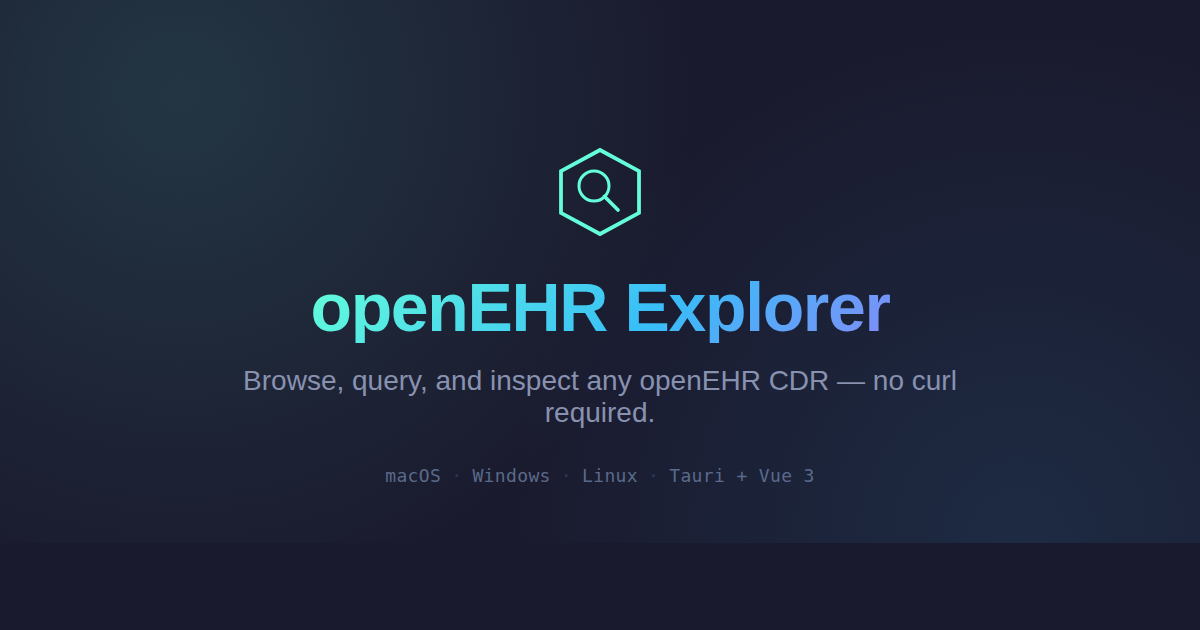
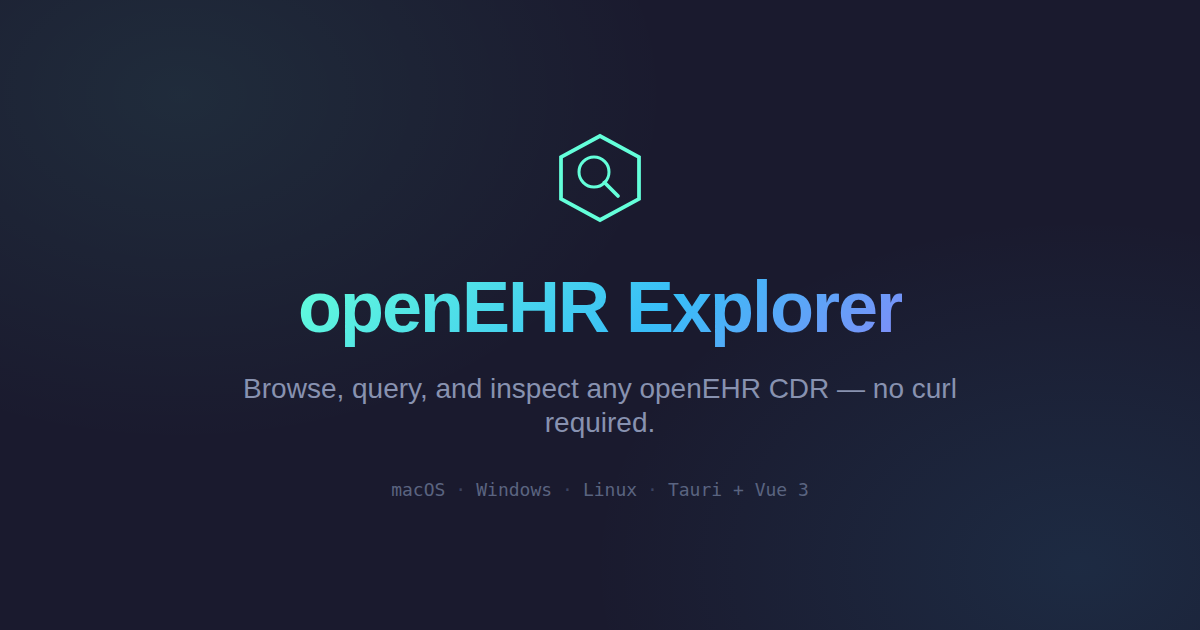
fix(website): og-image gradient, footer copyright, persistent section nav (#217)

diff --git a/scripts/og-image/og-image.html b/scripts/og-image/og-image.html
@@ -1,0 +1,83 @@
+<!doctype html>
+<html lang="en">
+  <head>
+    <meta charset="utf-8" />
+    <title>openEHR Explorer OG image</title>
+    <style>
+      html,
+      body {
+        margin: 0;
+        width: 1200px;
+        height: 630px;
+        overflow: hidden;
+      }
+      body {
+        /* Gradients live on a fixed-size body so they cover the full 1200×630 canvas. */
+        background:
+          radial-gradient(
+            ellipse 700px 500px at 15% 15%,
+            rgba(100, 255, 218, 0.08),
+            transparent 70%
+          ),
+          radial-gradient(ellipse 700px 500px at 90% 90%, rgba(56, 189, 248, 0.1), transparent 70%),
+          #1a1a2e;
+        display: flex;
+        flex-direction: column;
+        align-items: center;
+        justify-content: center;
+        font-family: "Helvetica Neue", Helvetica, Arial, sans-serif;
+        text-align: center;
+      }
+      h1 {
+        margin: 40px 0 0;
+        font-size: 72px;
+        font-weight: 700;
+        letter-spacing: -2px;
+        background: linear-gradient(135deg, #64ffda 0%, #38bdf8 60%, #818cf8 100%);
+        -webkit-background-clip: text;
+        background-clip: text;
+        color: transparent;
+      }
+      p {
+        margin: 24px 0 0;
+        max-width: 740px;
+        font-size: 28px;
+        line-height: 1.2;
+        color: #8892b0;
+      }
+      .meta {
+        margin-top: 40px;
+        font-family: "DejaVu Sans Mono", Menlo, monospace;
+        font-size: 18px;
+        color: #5a6480;
+      }
+      .meta span {
+        margin: 0 10px;
+        color: #3a4260;
+      }
+    </style>
+  </head>
+  <body>
+    <svg viewBox="0 0 64 64" width="96" height="96">
+      <polygon
+        points="32,4 58,18 58,46 32,60 6,46 6,18"
+        fill="none"
+        stroke="#64ffda"
+        stroke-width="2.5"
+      />
+      <circle cx="28" cy="28" r="10" fill="none" stroke="#64ffda" stroke-width="2" />
+      <line
+        x1="35"
+        y1="35"
+        x2="44"
+        y2="44"
+        stroke="#64ffda"
+        stroke-width="2.5"
+        stroke-linecap="round"
+      />
+    </svg>
+    <h1>openEHR Explorer</h1>
+    <p>Browse, query, and inspect any openEHR CDR — no curl required.</p>
+    <div class="meta">macOS<span>·</span>Windows<span>·</span>Linux<span>·</span>Tauri + Vue 3</div>
+  </body>
+</html>

diff --git a/scripts/og-image/render.js b/scripts/og-image/render.js
@@ -1,0 +1,18 @@
+#!/usr/bin/env node
+// Regenerates website/public/assets/og-image.png (1200×630) from og-image.html.
+//
+// Usage: node scripts/og-image/render.js
+
+import path from "node:path";
+import { fileURLToPath, pathToFileURL } from "node:url";
+import { chromium } from "playwright";
+
+const __dirname = path.dirname(fileURLToPath(import.meta.url));
+const OUT = path.resolve(__dirname, "..", "..", "website", "public", "assets", "og-image.png");
+
+const browser = await chromium.launch();
+const page = await browser.newPage({ viewport: { width: 1200, height: 630 } });
+await page.goto(pathToFileURL(path.join(__dirname, "og-image.html")).href);
+await page.screenshot({ path: OUT, clip: { x: 0, y: 0, width: 1200, height: 630 } });
+await browser.close();
+console.log(`Wrote ${OUT}`);
